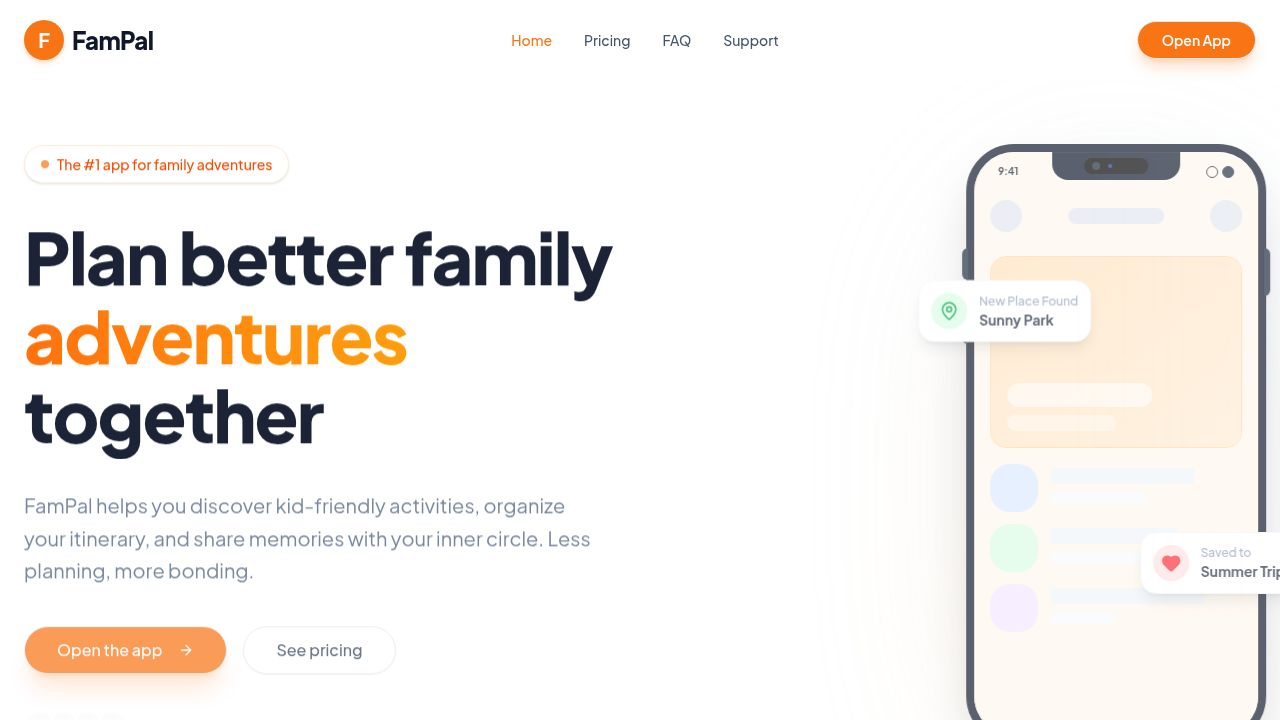
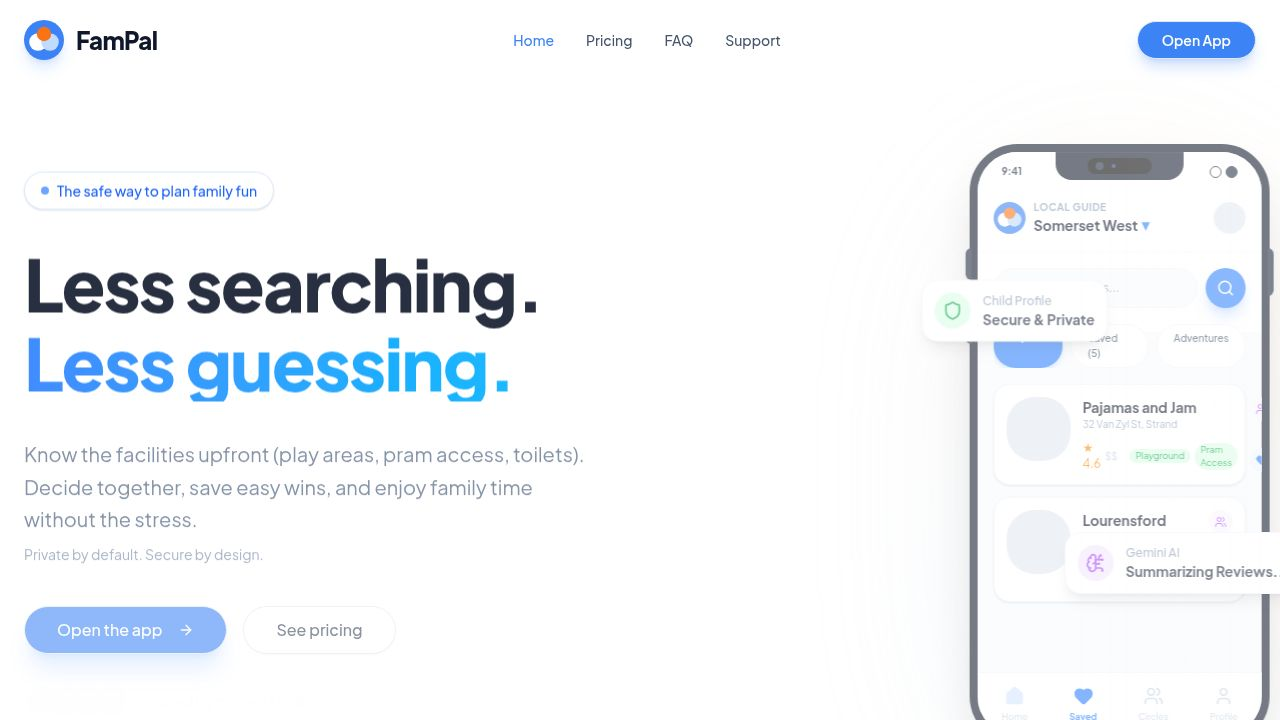
Update website copy and UI elements to better highlight family planning benefits
Update marketing website copy, hero section, features, and phone mockups to emphasize key family planning benefits and address user pain points. Modify pricing tiers and FAQ answers.

Replit-Commit-Author: Agent
Replit-Commit-Session-Id: 24ae5e62-f813-4a13-8344-957d529abf1d
Replit-Commit-Checkpoint-Type: full_checkpoint
Replit-Commit-Event-Id: 6c4900fa-456c-4a8f-a8af-8e728e315798
Replit-Commit-Screenshot-Url: https://storage.googleapis.com/screenshot-production-us-central1/a9843da1-e23b-4555-b6a6-c7246e866beb/24ae5e62-f813-4a13-8344-957d529abf1d/6bf66Zv
Replit-Helium-Checkpoint-Created: true

diff --git a/client/src/pages/home.tsx b/client/src/pages/home.tsx
@@ -21,15 +21,16 @@ export default function Home() {
             <div className="flex-1 text-center md:text-left space-y-8">
               <div className="inline-flex items-center gap-2 px-4 py-2 rounded-full bg-white border border-blue-100 shadow-sm text-sm font-medium text-blue-600 animate-in fade-in slide-in-from-bottom-4 duration-700">
                 <span className="w-2 h-2 rounded-full bg-blue-500 animate-pulse"></span>
-                The safe way to share family memories
+                The safe way to plan family fun
               </div>
               
               <h1 className="text-5xl md:text-6xl lg:text-7xl font-extrabold tracking-tight text-slate-900 leading-[1.1] animate-in fade-in slide-in-from-bottom-6 duration-700 delay-100">
-                Plan adventures & <span className="block text-transparent bg-clip-text bg-gradient-to-r from-blue-500 to-sky-400">share memories</span> <span className="text-transparent bg-clip-text bg-gradient-to-r from-orange-500 to-amber-500">securely</span>
+                Less searching. <span className="block text-transparent bg-clip-text bg-gradient-to-r from-blue-500 to-sky-400">Less guessing.</span>
               </h1>
               
               <p className="text-lg md:text-xl text-slate-500 max-w-xl mx-auto md:mx-0 leading-relaxed animate-in fade-in slide-in-from-bottom-8 duration-700 delay-200">
-                FamPal helps you discover kid-friendly activities tailored to your child's profile, link with your partner, and keep special moments private within your circle.
+                Know the facilities upfront (play areas, pram access, toilets). Decide together, save easy wins, and enjoy family time without the stress.
+                <span className="block mt-2 text-sm text-slate-400">Private by default. Secure by design.</span>
               </p>
               
               <div className="flex flex-col sm:flex-row items-center justify-center md:justify-start gap-4 animate-in fade-in slide-in-from-bottom-10 duration-700 delay-300">
@@ -85,15 +86,19 @@ export default function Home() {
         </div>
       </section>
 
-      {/* Social Proof */}
-      <section className="py-10 border-y border-slate-100 bg-slate-50/50">
-        <div className="container-width">
-          <p className="text-center text-sm font-medium text-slate-400 uppercase tracking-wider mb-6">Partnering with secure technology</p>
-          <div className="flex flex-wrap justify-center items-center gap-8 md:gap-16 opacity-50 grayscale hover:grayscale-0 transition-all duration-500">
-            {/* Placeholder Logos - Using text for now as requested */}
-            <div className="font-bold text-xl text-slate-600 flex items-center gap-2"><BrainCircuit className="w-6 h-6" /> Gemini AI</div>
-            <div className="font-bold text-xl text-slate-600 flex items-center gap-2"><MapPin className="w-6 h-6" /> Google Maps</div>
-            <div className="font-bold text-xl text-slate-600 flex items-center gap-2"><Shield className="w-6 h-6" /> Secure Cloud</div>
+      {/* Pain Section */}
+      <section className="py-12 bg-white border-b border-slate-100">
+        <div className="container-width max-w-4xl text-center space-y-8 animate-in fade-in slide-in-from-bottom-8 duration-700">
+          <h2 className="text-2xl md:text-3xl font-bold text-slate-900 leading-tight">
+            Tired of Googling "kid friendly places" and calling to check for high chairs?
+          </h2>
+          <div className="flex flex-wrap justify-center gap-4 text-slate-500">
+             <span className="bg-slate-50 px-4 py-2 rounded-full border border-slate-100">🚫 Guessing facilities</span>
+             <span className="bg-slate-50 px-4 py-2 rounded-full border border-slate-100">🚫 WhatsApp link chaos</span>
+             <span className="bg-slate-50 px-4 py-2 rounded-full border border-slate-100">🚫 Disappointing outings</span>
+          </div>
+          <div className="pt-4">
+             <p className="text-xl font-medium text-blue-600">FamPal fixes this.</p>
           </div>
         </div>
       </section>
@@ -102,46 +107,46 @@ export default function Home() {
       <section className="py-20 md:py-32">
         <div className="container-width">
           <div className="text-center max-w-2xl mx-auto mb-16 space-y-4">
-            <h2 className="text-3xl md:text-4xl font-bold text-slate-900">Designed for privacy, built for fun</h2>
-            <p className="text-lg text-slate-500">FamPal brings modern tech and strict privacy together so you can focus on making memories.</p>
+            <h2 className="text-3xl md:text-4xl font-bold text-slate-900">Real world family advice</h2>
+            <p className="text-lg text-slate-500">We focus on the practical details that make or break a family outing.</p>
           </div>
 
           <div className="grid grid-cols-1 md:grid-cols-3 gap-8">
             <FeatureCard 
-              icon={<Users className="text-blue-500" />}
-              title="Secure Partner Linking"
-              description="Link accounts with your spouse to co-manage itineraries and memories in a shared, private space."
+              icon={<MapPin className="text-blue-500" />}
+              title="Know Before You Go"
+              description="See facilities upfront: Is there a play area? Is it fenced? Are there baby changing stations? No more surprises."
               color="bg-blue-50"
+            />
+            <FeatureCard 
+              icon={<BrainCircuit className="text-purple-500" />}
+              title="Review Summaries"
+              description="Stop reading 50 reviews. Our AI scans them for you and highlights safety, facilities, and vibe instantly."
+              color="bg-purple-50"
+            />
+            <FeatureCard 
+              icon={<Users className="text-green-500" />}
+              title="Plan Together"
+              description="Link with your partner to save ideas to a shared list. Stop sending links back and forth on WhatsApp."
+              color="bg-green-50"
+            />
+            <FeatureCard 
+              icon={<Heart className="text-red-500" />}
+              title="Save What Works"
+              description="Build a library of 'Safe Bets'—places you know your family loves, organized and ready for next time."
+              color="bg-red-50"
             />
             <FeatureCard 
               icon={<Lock className="text-orange-500" />}
               title="Private Memories"
-              description="Share photos and notes like social media, but only with the people you trust. Private by default."
+              description="Keep photos and notes private. Share only with the people you trust, or keep them just for you."
               color="bg-orange-50"
             />
             <FeatureCard 
-              icon={<Shield className="text-green-500" />}
+              icon={<Shield className="text-teal-500" />}
               title="Secure Child Profiles"
-              description="Tailor search results to your child's age without compromising their data privacy."
-              color="bg-green-50"
-            />
-            <FeatureCard 
-              icon={<BrainCircuit className="text-purple-500" />}
-              title="AI Summaries"
-              description="Powered by Gemini AI. Get instant summaries of thousands of reviews focused on family-friendliness."
-              color="bg-purple-50"
-            />
-            <FeatureCard 
-              icon={<MapPin className="text-red-500" />}
-              title="Google Reviews Integration"
-              description="See real-time ratings and reviews from Google Maps directly within the app."
-              color="bg-red-50"
-            />
-            <FeatureCard 
-              icon={<Heart className="text-pink-500" />}
-              title="Family Circles"
-              description="Create circles for Grandparents, School Friends, or Trip Groups to share specific plans securely."
-              color="bg-pink-50"
+              description="Tailor recommendations to your child's age group without compromising their data privacy."
+              color="bg-teal-50"
             />
           </div>
         </div>
@@ -161,18 +166,18 @@ export default function Home() {
             
             <Step 
               number="1"
-              title="Create a Secure Profile"
-              description="Set up your family profile and link with your partner for shared planning."
+              title="Pick a Vibe"
+              description="Tell us who's coming (ages, interests) and we'll filter out the places that won't work."
             />
             <Step 
               number="2"
-              title="Discover with AI"
-              description="Find the perfect spots using our AI-powered summaries and child-friendly filters."
+              title="Check What Matters"
+              description="See facility details and AI summaries instantly. No more guessing."
             />
             <Step 
               number="3"
-              title="Capture Private Memories"
-              description="Save photos and notes to your private timeline or share with trusted circles."
+              title="Share, Go, Remember"
+              description="Send the plan to your partner, enjoy the day, and save the memory privately."
             />
           </div>
         </div>

diff --git a/client/src/components/phone-mockup.tsx b/client/src/components/phone-mockup.tsx
@@ -60,6 +60,8 @@ export function PhoneMockup() {
                 <div className="flex items-center gap-1">
                   <span className="text-orange-400 text-xs">★ 4.6</span>
                   <span className="text-slate-300 text-[10px]">$$</span>
+                  <span className="ml-2 text-[9px] bg-green-100 text-green-600 px-1.5 rounded-sm">Playground</span>
+                  <span className="text-[9px] bg-green-100 text-green-600 px-1.5 rounded-sm">Pram Access</span>
                 </div>
               </div>
               <div className="flex flex-col justify-between items-end">
@@ -76,6 +78,7 @@ export function PhoneMockup() {
                 <div className="flex items-center gap-1">
                   <span className="text-orange-400 text-xs">★ 4.4</span>
                   <span className="text-slate-300 text-[10px]">$$</span>
+                  <span className="ml-2 text-[9px] bg-green-100 text-green-600 px-1.5 rounded-sm">Fenced</span>
                 </div>
               </div>
               <div className="flex flex-col justify-between items-end">

diff --git a/client/src/lib/constants.ts b/client/src/lib/constants.ts
@@ -26,7 +26,7 @@ export const PRICING_TIERS = [
       "AI Summaries by Gemini",
       "Exclusive deals"
     ],
-    cta: "Go Pro",
+    cta: "Coming Soon",
     popular: true
   },
   {
@@ -40,7 +40,7 @@ export const PRICING_TIERS = [
       "Founder's badge",
       "No recurring fees"
     ],
-    cta: "Get Lifetime",
+    cta: "Early Access",
     popular: false
   }
 ];
@@ -48,7 +48,7 @@ export const PRICING_TIERS = [
 export const FAQS = [
   {
     question: "What makes FamPal different?",
-    answer: "FamPal is built specifically for families. We use Secure Child Profiles to tailor search results to your kids' ages and needs. Plus, our 'Memories' feature lets you privately share moments with your inner circle, unlike public social media."
+    answer: "FamPal is built specifically to remove the stress of family outings. We focus on showing you facilities upfront (like toilets, parking, and play areas) and summarizing real reviews so you don't have to guess if a place is truly kid-friendly."
   },
   {
     question: "Is my data private?",

diff --git a/client/src/pages/pricing.tsx b/client/src/pages/pricing.tsx
@@ -69,7 +69,7 @@ export default function Pricing() {
           <div className="mt-16 text-center">
             <div className="inline-flex items-center gap-2 px-4 py-2 rounded-full bg-white border border-slate-100 shadow-sm text-sm text-slate-500">
               <ShieldCheck size={16} className="text-green-500" />
-              Payments handled securely. In-app purchases available on iOS and Android.
+              <span className="font-medium">Payments handled securely. In-app purchases available on iOS and Android.</span>
             </div>
           </div>
         </div>
